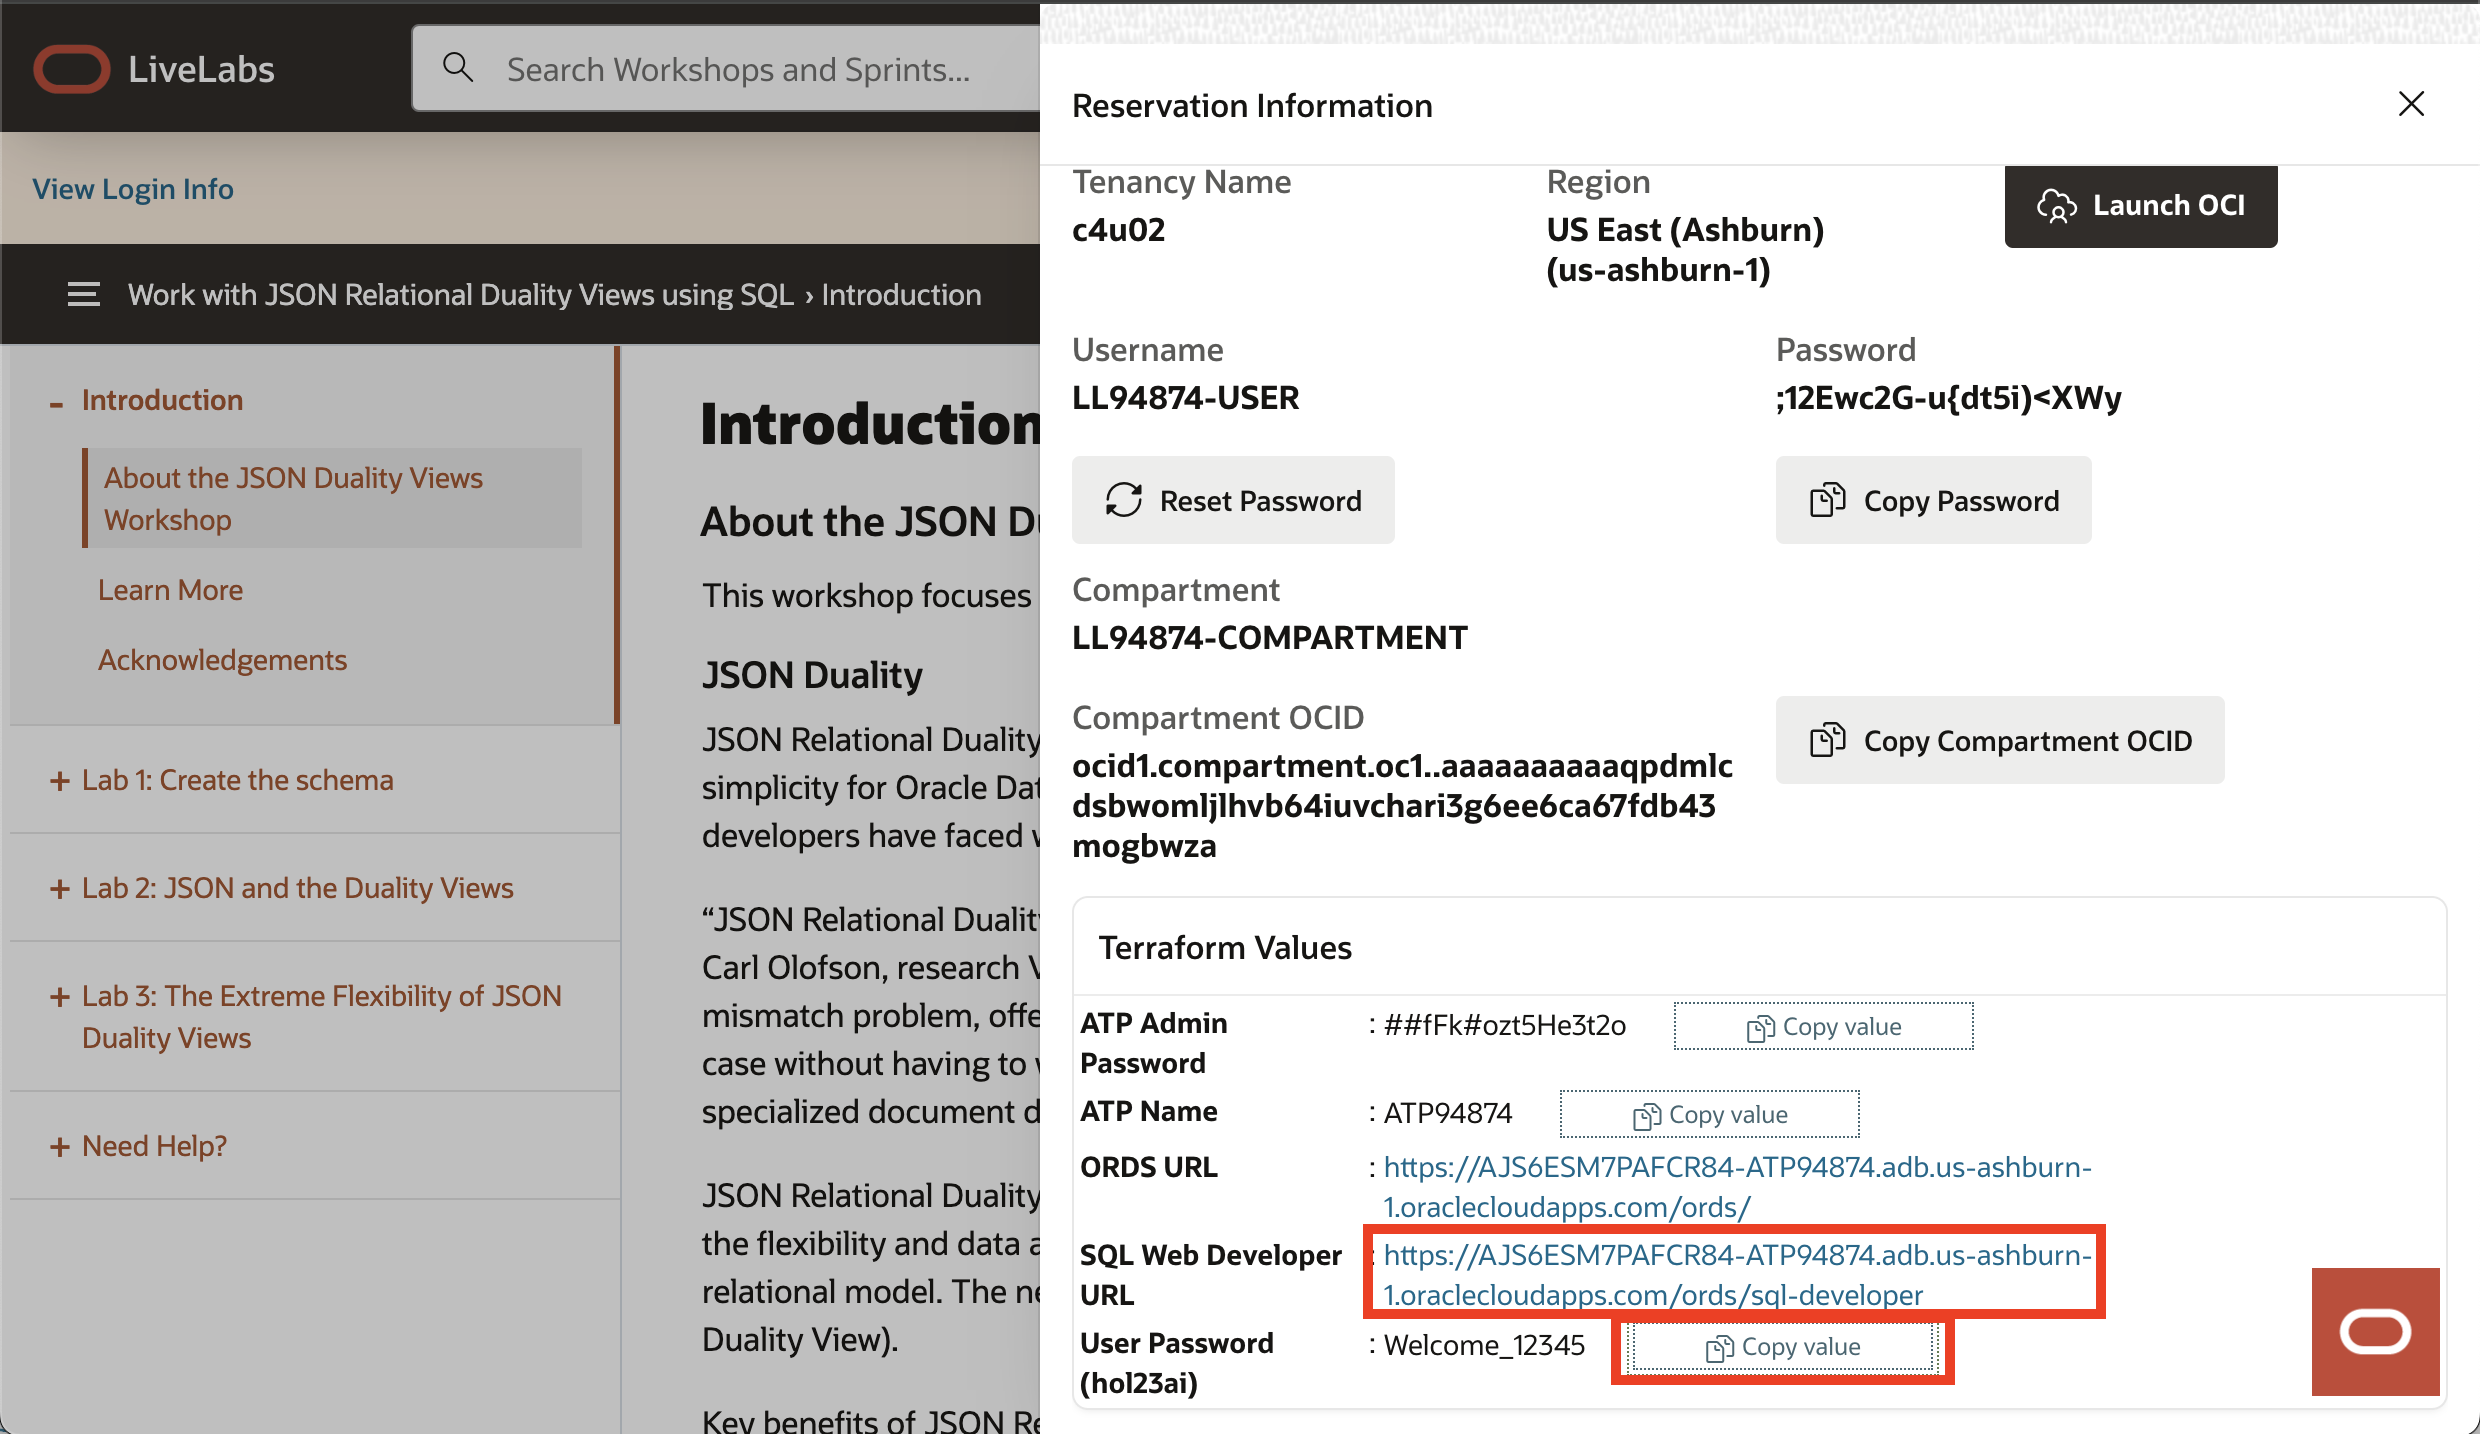
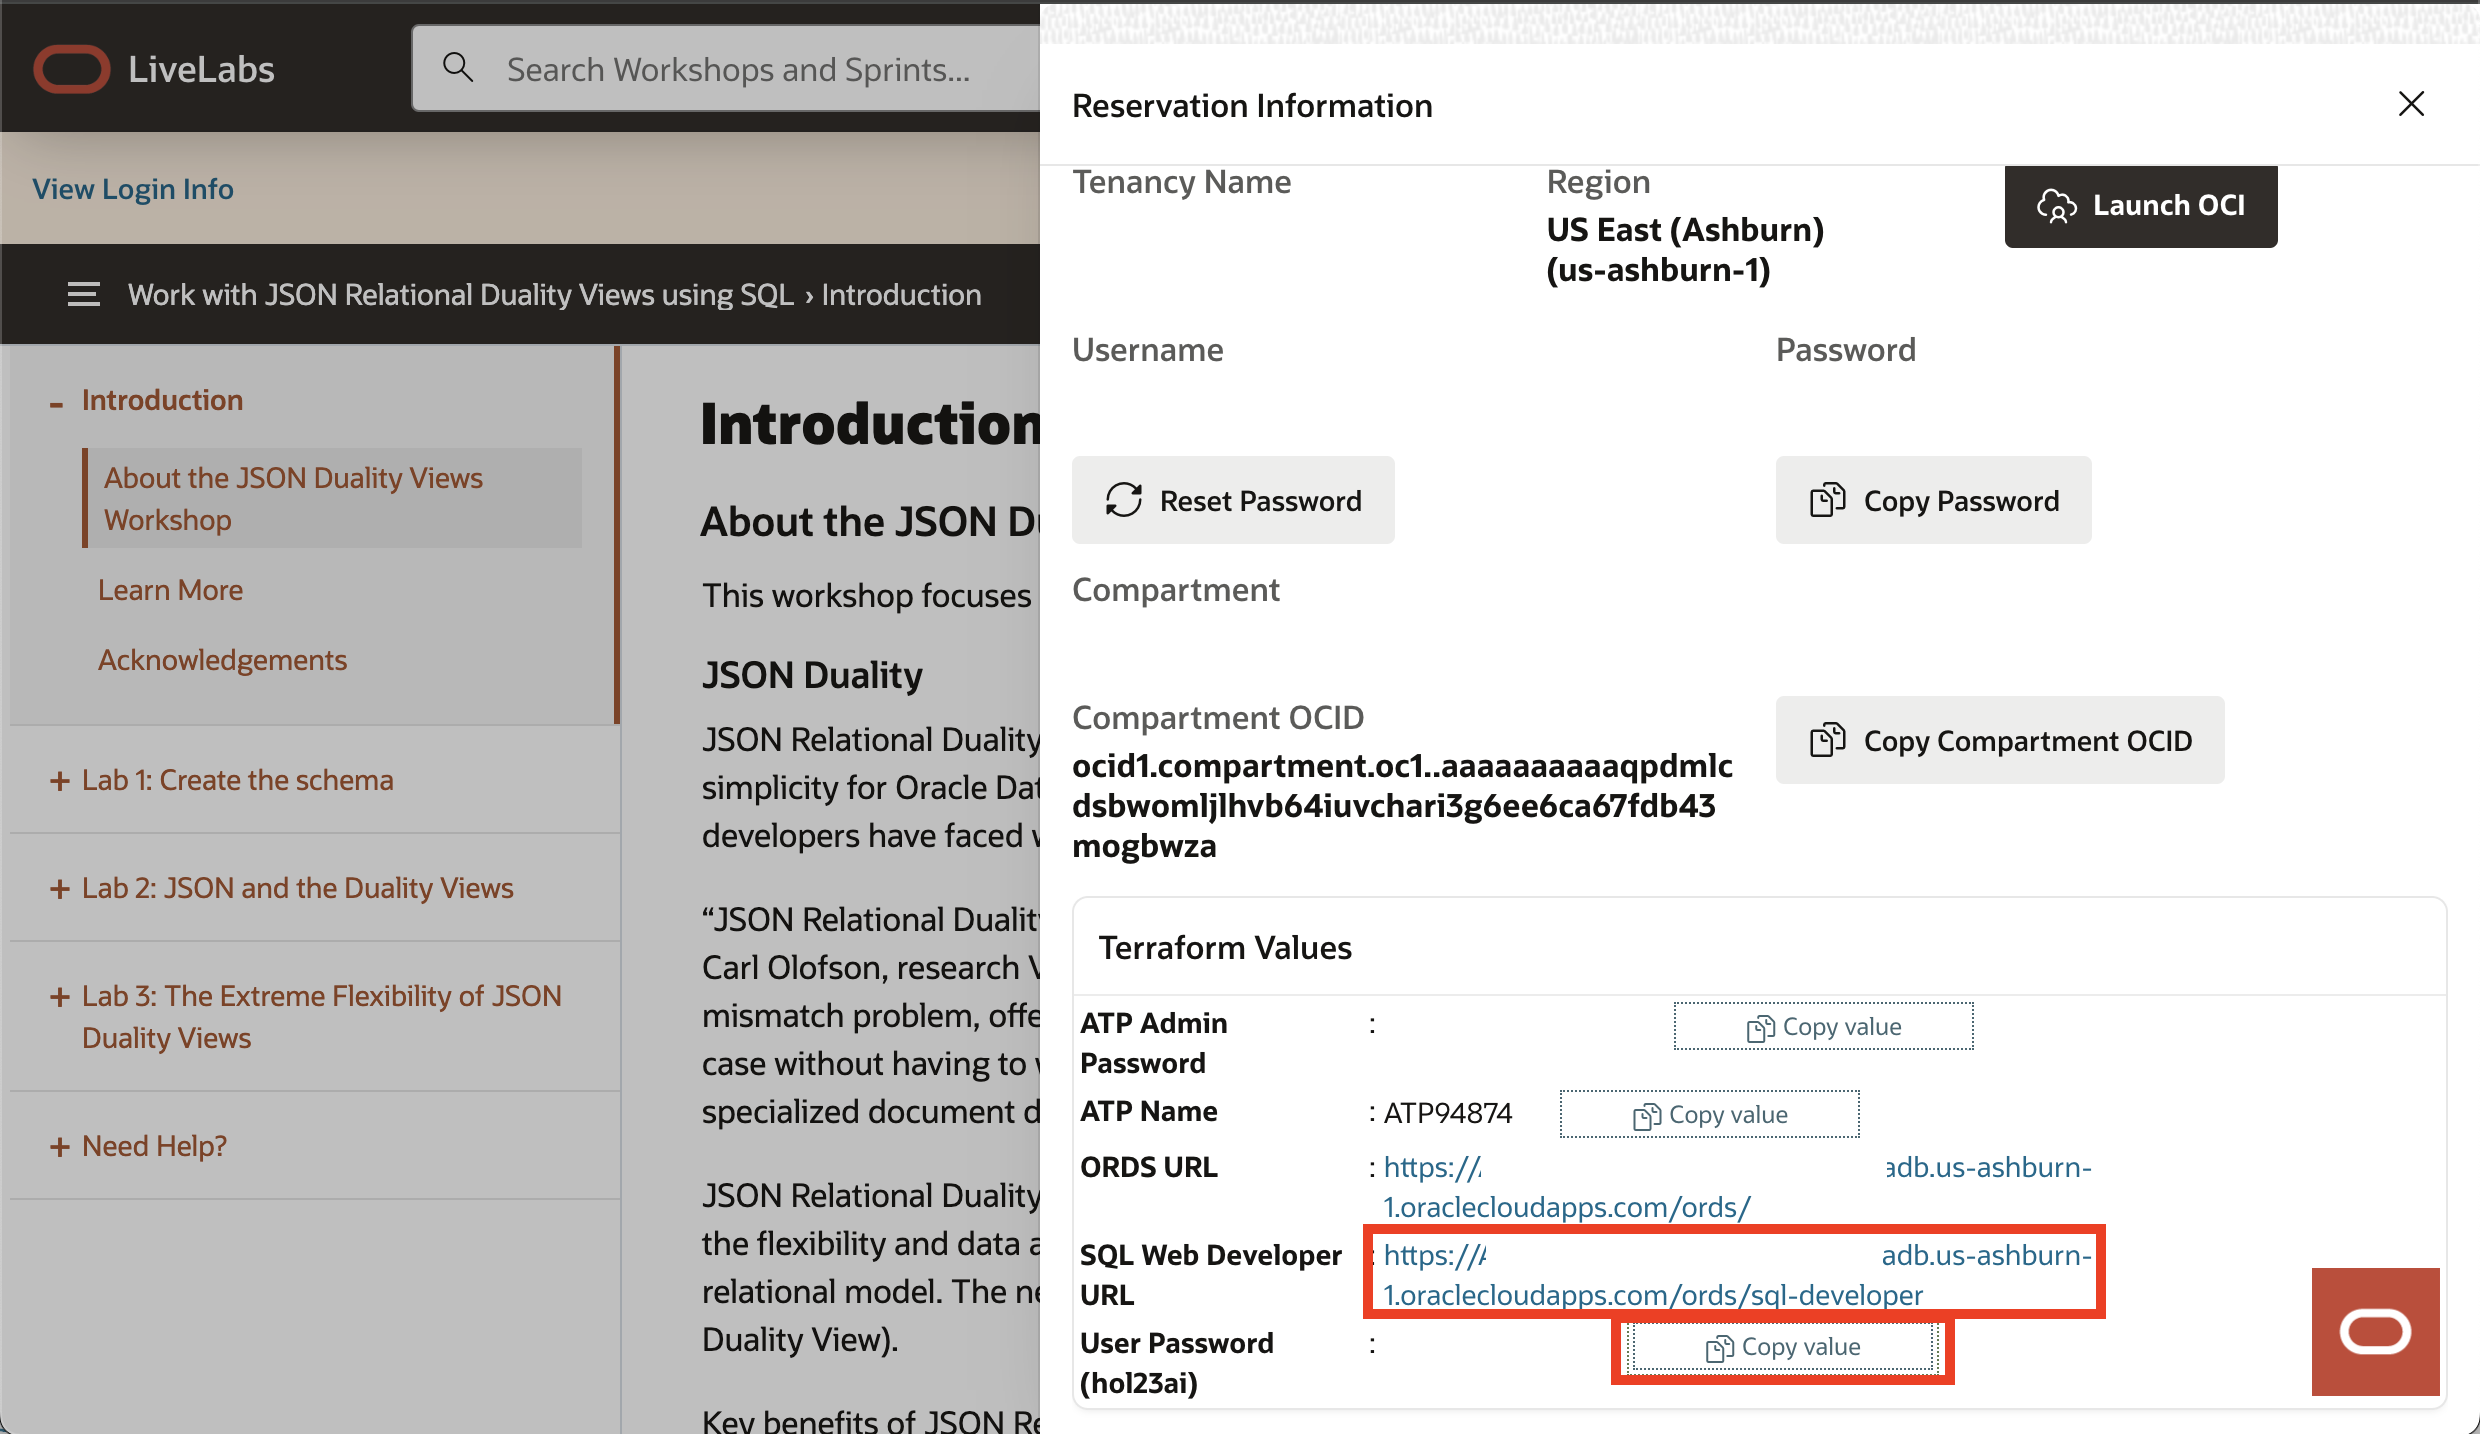
made changes to images in sql-schema WMS 3968 (#300)
made changes to images in sql-schema

removed private information

diff --git a/json-duality-adb-free/sql-schema/sql-schema.md b/json-duality-adb-free/sql-schema/sql-schema.md
@@ -25,7 +25,7 @@ This lab assumes you have:
 
     ![Image alt text](images/login-info.png " ")
 
-3. From here, Click **Copy Value** on the bottom of the screen to copy the User password, which in this case is **Welcome_12345**. Note: you'll want to verify that the password was correctly copied, if not, manually copy it. Next, click on the **SQL Web Developer URL**, this will take us to the login menu. 
+3. From here, Click **Copy Value** on the bottom of the screen to copy the User password. Note: you'll want to verify that the password was correctly copied, if not, manually copy it. Next, click on the **SQL Web Developer URL**, this will take us to the login menu. 
 
     ![Image alt text](images/reservation-info.png " ")
 
